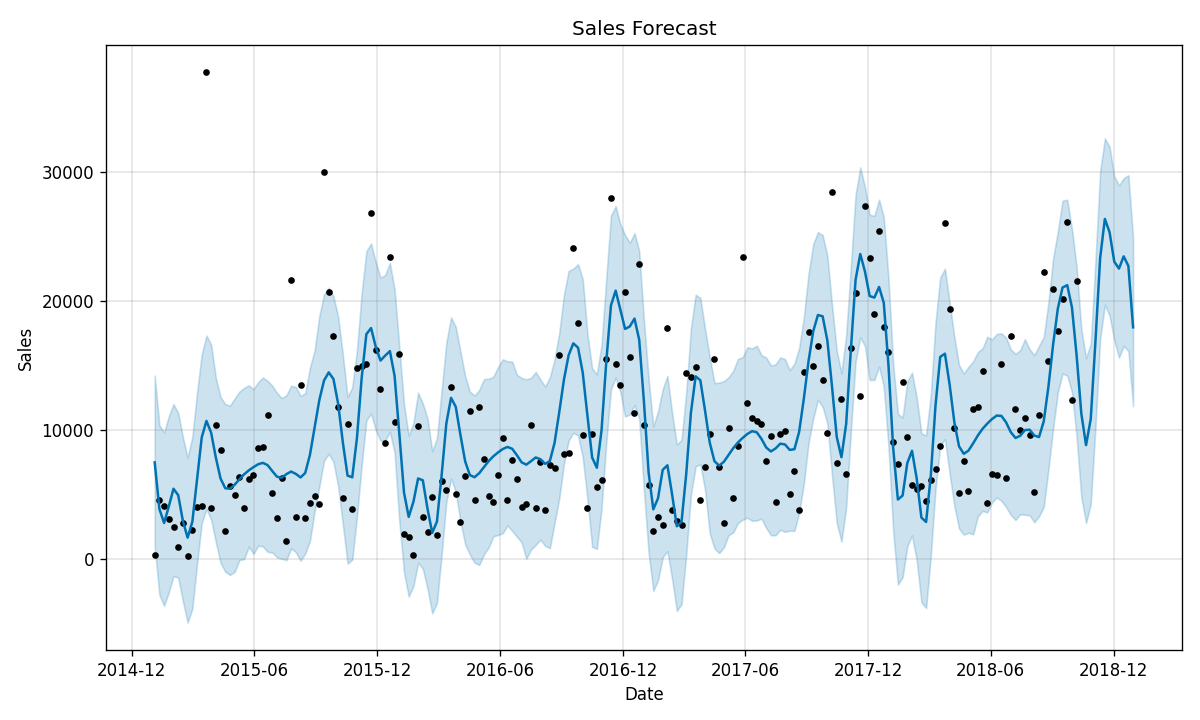
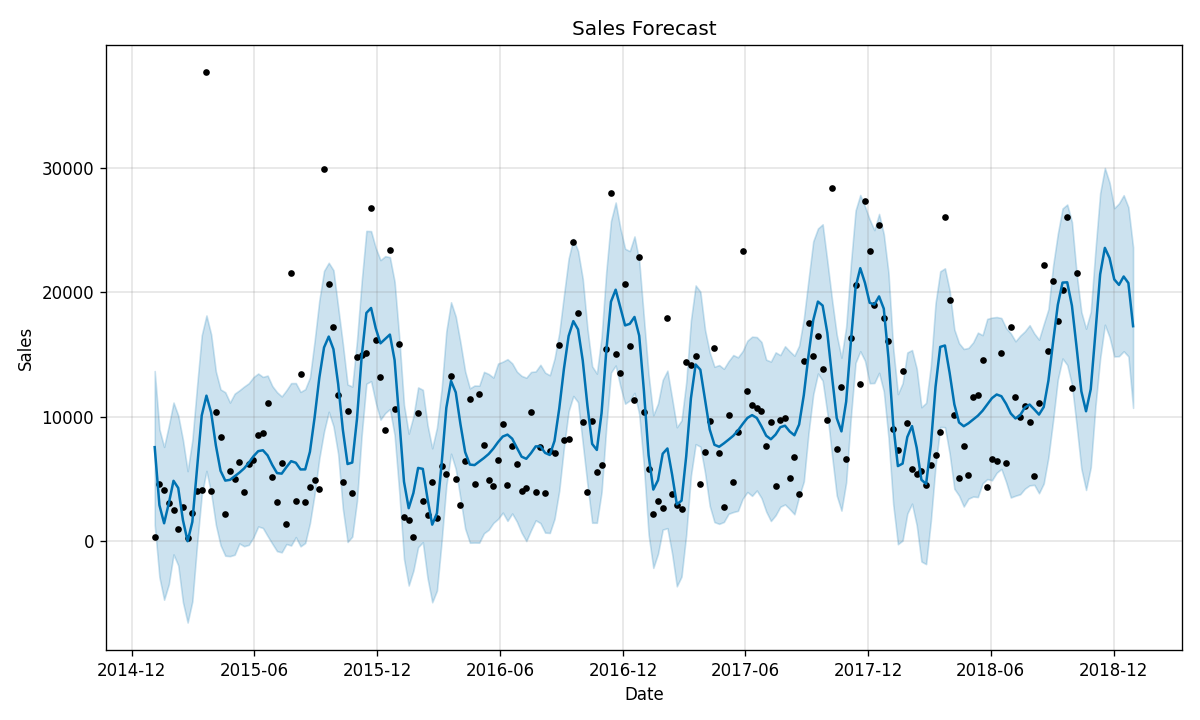
Day 5: cross-validation and weekly vs monthly comparison

diff --git a/forecast_model.py b/forecast_model.py
@@ -32,7 +32,8 @@ def train_model(train_df):
     model = Prophet(
         yearly_seasonality=True,
         weekly_seasonality=False,
-        seasonality_mode="multiplicative"  # good fit since seasonality grows with the trend
+        seasonality_mode="additive",  # more stable on shorter/noisier series
+        changepoint_prior_scale=0.1   # allows a bit more trend flexibility
     )
     model.fit(train_df)
     return model
@@ -78,6 +79,66 @@ def plot_components(model, forecast, out="notebooks/forecast_components.png"):
     plt.close()
 
 
+def load_monthly_sales(path="data/train.csv"):
+    df = pd.read_csv(path)
+    df["Order Date"] = pd.to_datetime(df["Order Date"], format="%d/%m/%Y")
+    monthly = df.set_index("Order Date")["Sales"].resample("M").sum()
+    return monthly
+
+
+def run_cross_validation(model, initial="730 days", period="90 days", horizon="90 days"):
+    """
+    Prophet's built-in rolling-origin cross-validation: much more robust than a
+    single train/test split since it tests the model across multiple time windows.
+    """
+    from prophet.diagnostics import cross_validation, performance_metrics
+    df_cv = cross_validation(model, initial=initial, period=period, horizon=horizon)
+    df_metrics = performance_metrics(df_cv)
+    return df_cv, df_metrics
+
+
+def compare_weekly_vs_monthly():
+    print("=" * 50)
+    print("WEEKLY MODEL")
+    print("=" * 50)
+    weekly = load_weekly_sales()
+    weekly_df = prepare_prophet_df(weekly)
+    w_train, w_test = train_test_split(weekly_df, test_weeks=12)
+    w_model = train_model(w_train)
+    w_forecast = evaluate_with_baseline(w_model, w_test, w_train["y"].iloc[-1])
+
+    print("\n" + "=" * 50)
+    print("MONTHLY MODEL")
+    print("=" * 50)
+    monthly = load_monthly_sales()
+    monthly_df = prepare_prophet_df(monthly)
+    m_train, m_test = train_test_split(monthly_df, test_weeks=3)  # last 3 months
+    m_model = train_model(m_train)
+    m_forecast = evaluate_with_baseline(m_model, m_test, m_train["y"].iloc[-1])
+
+    return weekly_df, weekly, monthly_df
+
+
+def evaluate_with_baseline(model, test_df, last_train_value):
+    future = model.make_future_dataframe(periods=len(test_df), freq="D")
+    # Match frequency to test_df's actual spacing
+    future = model.make_future_dataframe(periods=len(test_df), freq=pd.infer_freq(test_df["ds"]) or "W")
+    forecast = model.predict(future)
+    predicted = forecast.set_index("ds").reindex(test_df["ds"])["yhat"]
+    actual = test_df.set_index("ds")["y"]
+
+    mae = np.mean(np.abs(actual.values - predicted.values))
+    rmse = np.sqrt(np.mean((actual.values - predicted.values) ** 2))
+    naive_pred = np.full(len(test_df), last_train_value)
+    naive_mae = np.mean(np.abs(actual.values - naive_pred))
+
+    print(f"Model MAE:  {mae:.2f}")
+    print(f"Model RMSE: {rmse:.2f}")
+    print(f"Naive baseline MAE: {naive_mae:.2f}")
+    print(f"Improvement over baseline: {(1 - mae/naive_mae) * 100:.1f}%")
+    return forecast
+
+
 if __name__ == "__main__":
     weekly = load_weekly_sales()
     prophet_df = prepare_prophet_df(weekly)
@@ -93,6 +154,25 @@ if __name__ == "__main__":
     plot_forecast(model, forecast)
     plot_components(model, forecast)
     print("Saved forecast.png and forecast_components.png to notebooks/")
+
+    # Day 5: Cross-validation for a more robust accuracy estimate
+    print("\n" + "=" * 50)
+    print("CROSS-VALIDATION (rolling window)")
+    print("=" * 50)
+    full_model = train_model(prophet_df)
+    try:
+        df_cv, df_metrics = run_cross_validation(full_model)
+        print(df_metrics[["horizon", "mae", "rmse"]].head(10))
+        df_metrics.to_csv("data/cv_metrics.csv", index=False)
+        print("Saved cross-validation metrics to data/cv_metrics.csv")
+    except Exception as e:
+        print(f"Cross-validation skipped (needs more data or took too long): {e}")
+
+    # Day 5: Compare weekly vs monthly aggregation
+    print("\n" + "=" * 50)
+    print("WEEKLY vs MONTHLY COMPARISON")
+    print("=" * 50)
+    compare_weekly_vs_monthly()
 
     # Train final model on ALL data and forecast 12 weeks into the future
     final_model = train_model(prophet_df)
